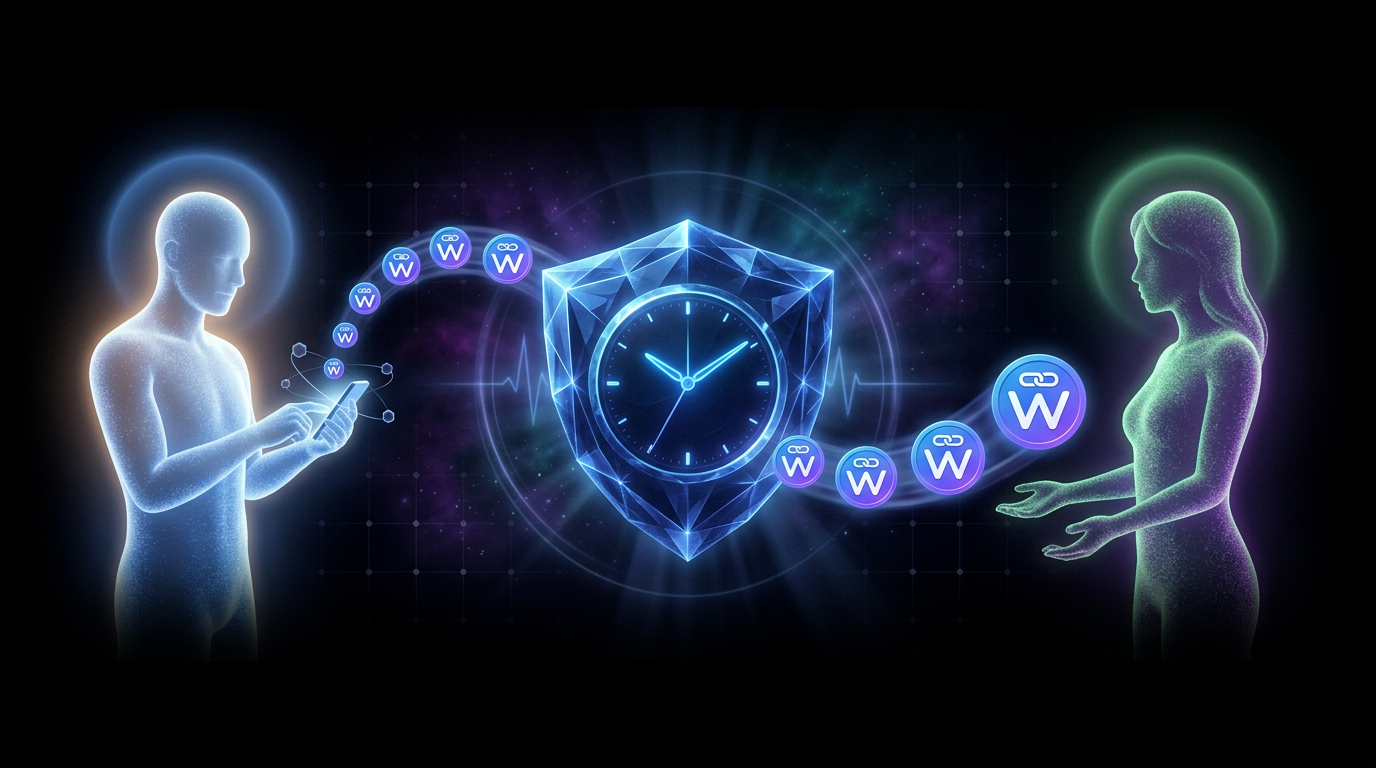
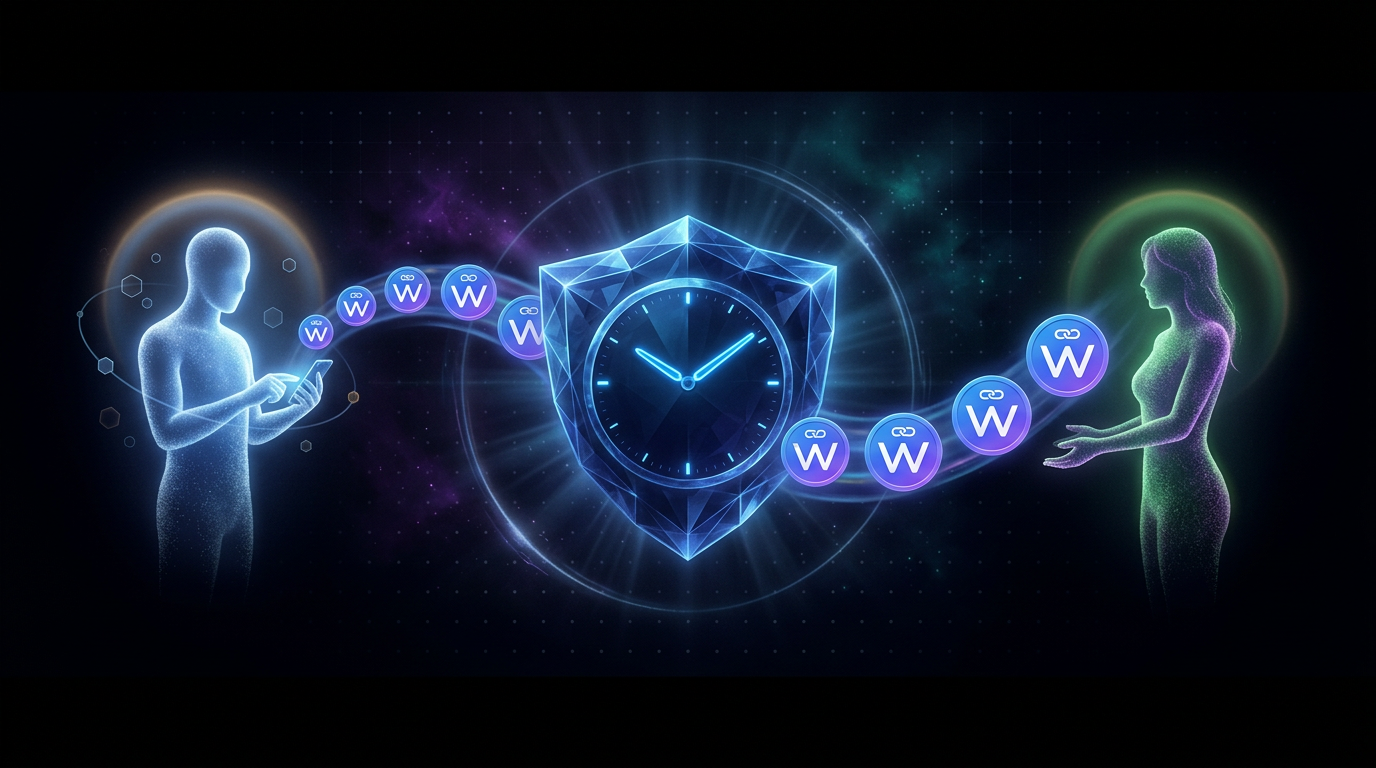
feat: RainbowKit locale, hero-stats responsive fix, regenerate hero image
- RainbowKit modals now localized (8 languages via locale prop)
- Hero stats card visible at 801-1100px (moved breakpoint from 800 to 1100)
- Regenerated hero scene: fixed clock hands and token W defects

diff --git a/frontend-react/src/styles/index.css b/frontend-react/src/styles/index.css
@@ -2617,16 +2617,34 @@ body.preloading {
 /* ══════════════════════════════════════════════════════════════
    RESPONSIVE
    ══════════════════════════════════════════════════════════════ */
-@media (min-width: 861px) and (max-width: 1100px) {
-  .stat { padding: 12px 16px; }
-  .stat-value { font-size: 1.3rem; }
-  .stat-label { font-size: 0.68rem; }
-  .trust-item { padding: 4px 10px; }
-  .trust-label { font-size: 0.62rem; }
-}
-
 @media (max-width: 1100px) {
   .hero-trust { display: none; }
+
+  /* Hero stats — card layout when trust bar is hidden */
+  .hero-stats {
+    position: relative;
+    top: auto; bottom: auto; left: auto; right: auto;
+    display: grid;
+    grid-template-columns: 1fr 1fr;
+    grid-template-areas:
+      "total total"
+      "burn recv";
+    background: var(--panel-2);
+    border: 1px solid var(--b);
+    border-radius: var(--r3);
+    margin-top: 16px;
+    padding: 0;
+    backdrop-filter: blur(12px); -webkit-backdrop-filter: blur(12px);
+  }
+  .stat { width: auto; padding: 18px 12px; align-items: center; justify-content: center; }
+  .stat:nth-child(1) { grid-area: total; border-bottom: 1px solid var(--b); padding: 24px 16px; }
+  .stat:nth-child(3) { grid-area: burn; border-right: 1px solid var(--b); }
+  .stat:nth-child(5) { grid-area: recv; }
+  .stat-divider { display: none; }
+  .stat-value { font-size: 1.35rem; }
+  .stat:nth-child(1) .stat-value { font-size: 1.65rem; }
+  .stat-label { font-size: 0.62rem; text-align: center; margin-top: 4px; }
+
   .hiw-scene { border-radius: var(--r3); }
   .hiw-grid   { grid-template-columns: repeat(2,1fr); position: static; padding: 16px; }
   .problem-cards { grid-template-columns: 1fr; }
@@ -2691,30 +2709,6 @@ body.preloading {
   .hero-scene-img {
     border-radius: var(--r3);
   }
-  .hero-stats {
-    position: relative;
-    top: auto; bottom: auto; left: auto; right: auto;
-    display: grid;
-    grid-template-columns: 1fr 1fr;
-    grid-template-areas:
-      "total total"
-      "burn recv";
-    background: var(--panel-2);
-    border: 1px solid var(--b);
-    border-radius: var(--r3);
-    margin-top: 16px;
-    padding: 0;
-    backdrop-filter: blur(12px); -webkit-backdrop-filter: blur(12px);
-  }
-  .stat { width: auto; padding: 18px 12px; align-items: center; justify-content: center; }
-  .stat:nth-child(1) { grid-area: total; border-bottom: 1px solid var(--b); padding: 24px 16px; }
-  .stat:nth-child(3) { grid-area: burn; border-right: 1px solid var(--b); }
-  .stat:nth-child(5) { grid-area: recv; }
-  .stat-divider { display: none; }
-
-  .stat-value { font-size: 1.35rem; }
-  .stat:nth-child(1) .stat-value { font-size: 1.65rem; }
-  .stat-label { font-size: 0.62rem; text-align: center; margin-top: 4px; }
 }
 
 @media (max-width: 600px) {

diff --git a/frontend-react/src/App.tsx b/frontend-react/src/App.tsx
@@ -1,11 +1,26 @@
 import { lazy, Suspense } from 'react'
 import { useAccount } from 'wagmi'
+import { useTranslation } from 'react-i18next'
+import { RainbowKitProvider, darkTheme, type Locale } from '@rainbow-me/rainbowkit'
+import { CustomAvatar } from './components/CustomAvatar'
 import { DisclaimerProvider } from './context/DisclaimerContext'
 import { NotificationProvider } from './context/NotificationContext'
 import { Header } from './components/layout/Header'
 import { Footer } from './components/layout/Footer'
 import { ErrorBoundary } from './components/ErrorBoundary'
 import { NotificationModal } from './components/modals/NotificationModal'
+
+// Map app languages → RainbowKit locale codes
+const rainbowKitLocale: Record<string, Locale> = {
+  en: 'en-US', es: 'es-419', pt: 'pt-BR', ru: 'ru-RU',
+  de: 'de-DE', fr: 'fr-FR', tr: 'tr-TR', uk: 'uk-UA',
+}
+
+const rainbowTheme = darkTheme({
+  accentColor: '#ff6400',
+  accentColorForeground: 'white',
+  borderRadius: 'medium',
+})
 
 // Lazy-loaded: dashboard and landing sections are mutually exclusive paths
 const Dashboard = lazy(() => import('./components/dashboard/Dashboard').then(m => ({ default: m.Dashboard })))
@@ -55,12 +70,17 @@ function AppContent() {
 }
 
 function App() {
+  const { i18n } = useTranslation()
+  const locale = rainbowKitLocale[i18n.language] ?? 'en-US'
+
   return (
-    <DisclaimerProvider>
-      <NotificationProvider>
-        <AppContent />
-      </NotificationProvider>
-    </DisclaimerProvider>
+    <RainbowKitProvider avatar={CustomAvatar} theme={rainbowTheme} locale={locale}>
+      <DisclaimerProvider>
+        <NotificationProvider>
+          <AppContent />
+        </NotificationProvider>
+      </DisclaimerProvider>
+    </RainbowKitProvider>
   )
 }
 

diff --git a/frontend-react/src/main.tsx b/frontend-react/src/main.tsx
@@ -2,10 +2,8 @@ import { StrictMode, Suspense } from 'react'
 import { createRoot } from 'react-dom/client'
 import { QueryClient, QueryClientProvider } from '@tanstack/react-query'
 import { WagmiProvider } from 'wagmi'
-import { RainbowKitProvider, darkTheme } from '@rainbow-me/rainbowkit'
 import { config } from './config/wagmi'
 import App from './App'
-import { CustomAvatar } from './components/CustomAvatar'
 import './i18n'
 
 import '@rainbow-me/rainbowkit/styles.css'
@@ -24,16 +22,7 @@ createRoot(document.getElementById('root')!).render(
     <Suspense fallback={null}>
       <WagmiProvider config={config}>
         <QueryClientProvider client={queryClient}>
-          <RainbowKitProvider
-            avatar={CustomAvatar}
-            theme={darkTheme({
-              accentColor: '#ff6400',
-              accentColorForeground: 'white',
-              borderRadius: 'medium',
-            })}
-          >
-            <App />
-          </RainbowKitProvider>
+          <App />
         </QueryClientProvider>
       </WagmiProvider>
     </Suspense>
